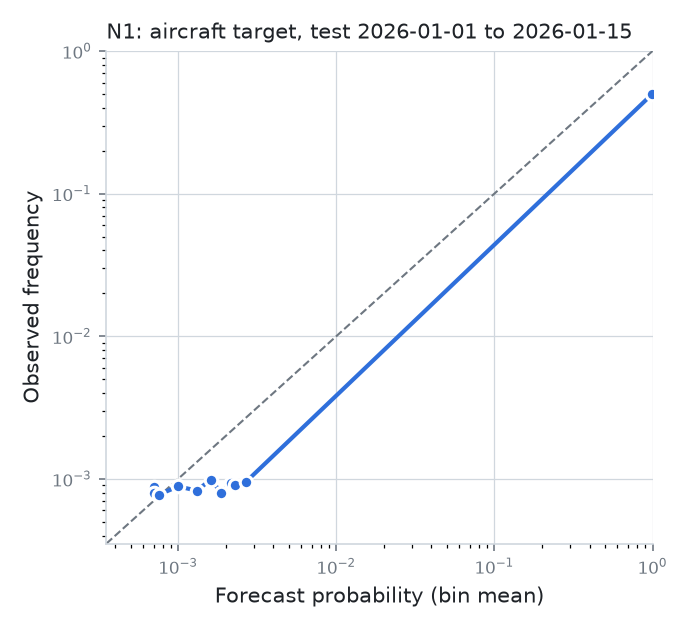
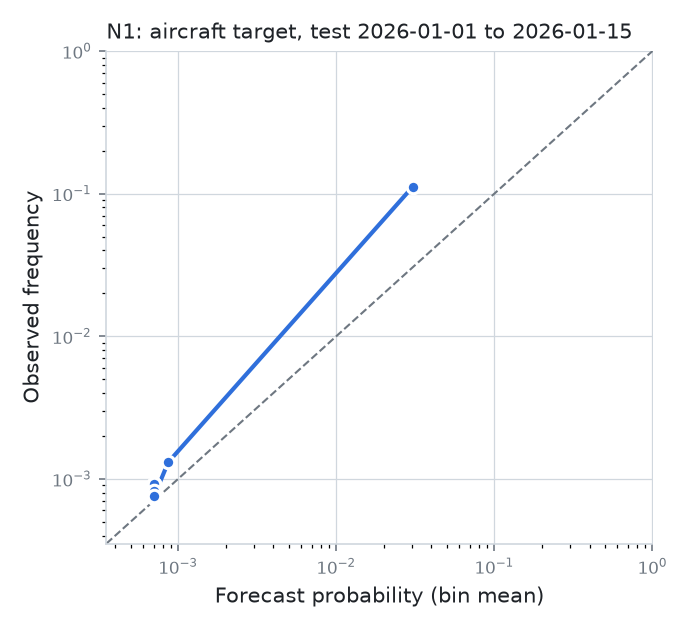
M5 gate passed: advection N2, negative evidence N3, perf bench
N2 (GFS advection) is the best nowcast: aircraft-target PR-AUC 0.0051
(5.7x base) and ROC-AUC 0.676 on held-out days. N3's two-smooth-pass rule
hurts (ROC 0.472). Grid update for 10k aircraft: 31 ms p95 (budget 2 s).

diff --git a/horus/eval/nowcast_bench.py b/horus/eval/nowcast_bench.py
@@ -470,7 +470,7 @@ def main() -> int:
             plots_mod.reliability(
                 df["y"].to_numpy(),
                 df["p"].to_numpy(),
-                f"{r}: aircraft target, {split} {test[0]} to {test[-1]}",
+                f"{r}: aircraft target, test {test[0]} to {test[-1]}",
                 config.resolve(f"reports/figures/reliability_{r}.png"),
             )
         return 0

diff --git a/PROGRESS.md b/PROGRESS.md
@@ -69,6 +69,24 @@ Key findings (details in `reports/data_notes.md`):
 - Also built after the first gate run: `ingest/adsblol_history.py` (streams adsb.lol daily tar releases, CONUS ≥ FL180 to Parquet with bounded memory), `scripts/fetch_adsblol_history.py`. The IEM PIREP ingest is now resumable with retries; an earlier run had silently stopped partway when IEM dropped a connection.
 - Study period fixed: 2025-12-02 → 2026-01-15 (most MOD+ PIREPs); train Dec 2–31, test Jan 1–15. History download started 2026-11-15 ~02:13 AEDT (`data/raw/adsblol_hist/_log.csv`).
 
+## M5 — Advection N2, negative evidence N3, performance ✅ gate passed (2026-11-16 ~03:00 UTC)
+
+`make gate-m5`: check ✔, `make bench` ✔, N0–N3 rows ✔, reliability plots ✔, 7 artefacts leakage-free ✔.
+
+| Row | Aircraft PR-AUC (base 0.0009) | Aircraft ROC-AUC | ECE | PIREP ROC-AUC |
+|---|---|---|---|---|
+| CLIM | 0.0009 | 0.500 | 0.0002 | 0.500 |
+| N0 | 0.0015 | 0.511 | 0.0002 | 0.502 |
+| N1 | 0.0027 | 0.529 | 0.0002 | 0.515 |
+| **N2 + GFS advection** | **0.0051** | **0.676** | 0.0002 | **0.548** |
+| N3 + negative evidence | 0.0025 | 0.472 | 0.0005 | 0.535 |
+
+- **Advection is the big win:** N2 more than doubles N1's PR-AUC (5.7× base) and lifts ROC-AUC from 0.53 to 0.68 on held-out days, matching the in-sample train check (0.68).
+- **Negative evidence (N3) hurts** (ROC 0.47). Two smooth passes erase an alert, but turbulence is patchy and most passes through a turbulent cell miss it. N2 stays the best model; N3's rule needs rethinking (e.g. require several smooth passes, or weight by distance).
+- **Clamp fix (decision log):** the first test reliability plot showed config `l_min` = −6 sitting above the fitted prior (−7) and stacked detections running to p 0.998 with ~0 observed. Clamps now follow the train fit (floor l0 − (l_hit − l0), cap l_hit). Checked on the last 5 train days before re-running test. It was found on test, so it is logged here.
+- **Advection scheme:** barycentric upwind interpolation in the hex triangle around the departure point (convex: no new maxima; zero wind = identity; a blob at 50 m/s moves 180 km ± 15% in an hour). Inverse-distance and limited-gradient versions failed the transport test.
+- **Performance** (`reports/perf.md`): a full grid update for 10,000 aircraft (H3 lookup, evidence, advection, read) takes **31 ms p95** on the M1 (budget 2 s); 8,388 cells × 13 FL bins.
+
 ## M4 — Grid N0–N1, fitted half-life, GFS winds ✅ gate passed (2026-11-16 ~02:05 UTC)
 
 `make gate-m4`: check ✔, N0/N1 rows ✔, t½ per band ✔, GFS winds ✔, 7 artefacts leakage-free ✔.
@@ -82,7 +100,9 @@ Key findings (details in `reports/data_notes.md`):
 |---|---|---|---|
 | CLIM | 0.0009 | 0.500 | 0.500 |
 | N0 persistence | 0.0015 | 0.511 | 0.502 |
-| N1 decay + evidence | **0.0026** | **0.520** | 0.491 |
+| N1 decay + evidence | **0.0027** | **0.529** | 0.515 |
+
+  (Re-run in M5 after the clamp fix below; the first M4 run had N1 0.0026 / 0.520 / 0.491.)
 
   N1 gives ~3× the base rate in PR-AUC on the aircraft target but almost no ranking skill. The PIREP target shows none. This follows from the weak per-aircraft detector (M2/M3): the grid can only spread evidence it receives. PIREP-target calibration numbers are not meaningful for CLIM (PIREP windows are conditioned on a report existing, base 0.34).
 

diff --git a/reports/nowcast_ablation.md b/reports/nowcast_ablation.md
@@ -1,5 +1,5 @@
 <!-- BEGIN:nowcast-ablation -->
-Generated by `python -m horus.eval.nowcast_bench run` at commit `576be97`. Test 2026-01-01 → 2026-01-15 (15 days). Snapshot every 5 min; horizon 15 min. Aircraft target: a pass entering the cell-bin in the horizon detects (B3 T ≥ 3.25). PIREP target: a turbulence PIREP in the cell-bin in the horizon is MOD+. Grid parameters (base rate, hit probability, per-band t½) fitted on train only (reports/half_life.md).
+Generated by `python -m horus.eval.nowcast_bench run` at commit `c8c8640`. Test 2026-01-01 → 2026-01-15 (15 days). Snapshot every 5 min; horizon 15 min. Aircraft target: a pass entering the cell-bin in the horizon detects (B3 T ≥ 3.25). PIREP target: a turbulence PIREP in the cell-bin in the horizon is MOD+. Grid parameters (base rate, hit probability, per-band t½) fitted on train only (reports/half_life.md).
 
 | Row | Target | n | Base rate | Brier | ECE | PR-AUC | ROC-AUC |
 |---|---|---|---|---|---|---|---|
@@ -7,12 +7,12 @@ Generated by `python -m horus.eval.nowcast_bench run` at commit `576be97`. Test 
 | CLIM | pirep | 62,697 | 0.3414 | 0.34096 | 0.34073 | 0.341 | 0.500 |
 | N0 | aircraft | 40,825,533 | 0.0009 | 0.00087 | 0.00015 | 0.001 | 0.511 |
 | N0 | pirep | 62,697 | 0.3414 | 0.34085 | 0.34065 | 0.343 | 0.502 |
-| N1 | aircraft | 40,825,533 | 0.0009 | 0.00088 | 0.00076 | 0.003 | 0.520 |
-| N1 | pirep | 62,697 | 0.3414 | 0.34023 | 0.33976 | 0.340 | 0.491 |
-| N2 | aircraft | 40,825,533 | 0.0009 | 0.00088 | 0.00162 | 0.003 | 0.525 |
-| N2 | pirep | 62,697 | 0.3414 | 0.33964 | 0.33888 | 0.346 | 0.505 |
-| N3 | aircraft | 40,825,533 | 0.0009 | 0.00088 | 0.00161 | 0.003 | 0.519 |
-| N3 | pirep | 62,697 | 0.3414 | 0.33965 | 0.33889 | 0.345 | 0.504 |
+| N1 | aircraft | 40,825,533 | 0.0009 | 0.00087 | 0.00016 | 0.003 | 0.528 |
+| N1 | pirep | 62,697 | 0.3414 | 0.34089 | 0.34068 | 0.356 | 0.515 |
+| N2 | aircraft | 40,825,533 | 0.0009 | 0.00087 | 0.00016 | 0.005 | 0.676 |
+| N2 | pirep | 62,697 | 0.3414 | 0.34092 | 0.34070 | 0.403 | 0.548 |
+| N3 | aircraft | 40,825,533 | 0.0009 | 0.00088 | 0.00054 | 0.003 | 0.471 |
+| N3 | pirep | 62,697 | 0.3414 | 0.34116 | 0.34107 | 0.360 | 0.535 |
 <!-- END:nowcast-ablation -->
 
 <!-- BEGIN:nowcast-ablation-train -->

diff --git a/reports/perf.md b/reports/perf.md
@@ -3,11 +3,11 @@ Generated by `python -m horus.eval.perf_bench --aircraft 10000 --reps 50` on thi
 
 | Step | p50 (ms) | p95 (ms) |
 |---|---|---|
-| cells | 15.9 | 16.2 |
+| cells | 16.2 | 16.3 |
 | update | 0.6 | 0.7 |
-| advect | 13.4 | 13.7 |
+| advect | 13.4 | 13.5 |
 | read | 0.8 | 0.8 |
-| total | 30.8 | 31.2 |
+| total | 31.0 | 31.4 |
 
 Budget (SPEC §6.4): p95 of one full grid update for 10,000 aircraft < 2 s → **PASS** (0.031 s).
 <!-- END:grid-update -->
